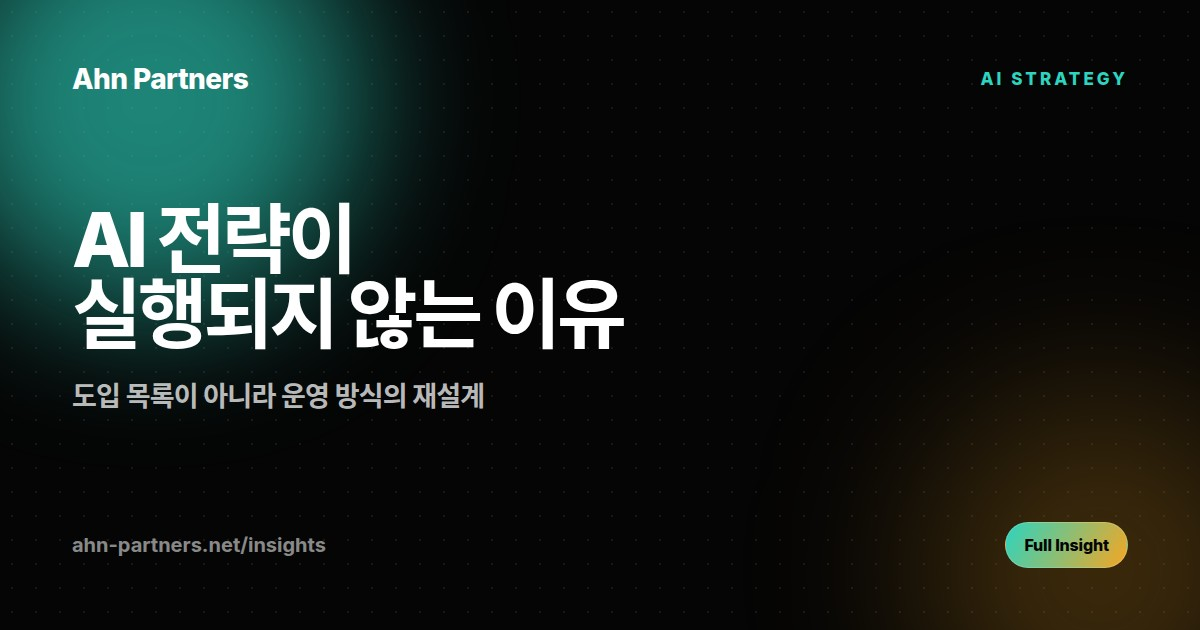
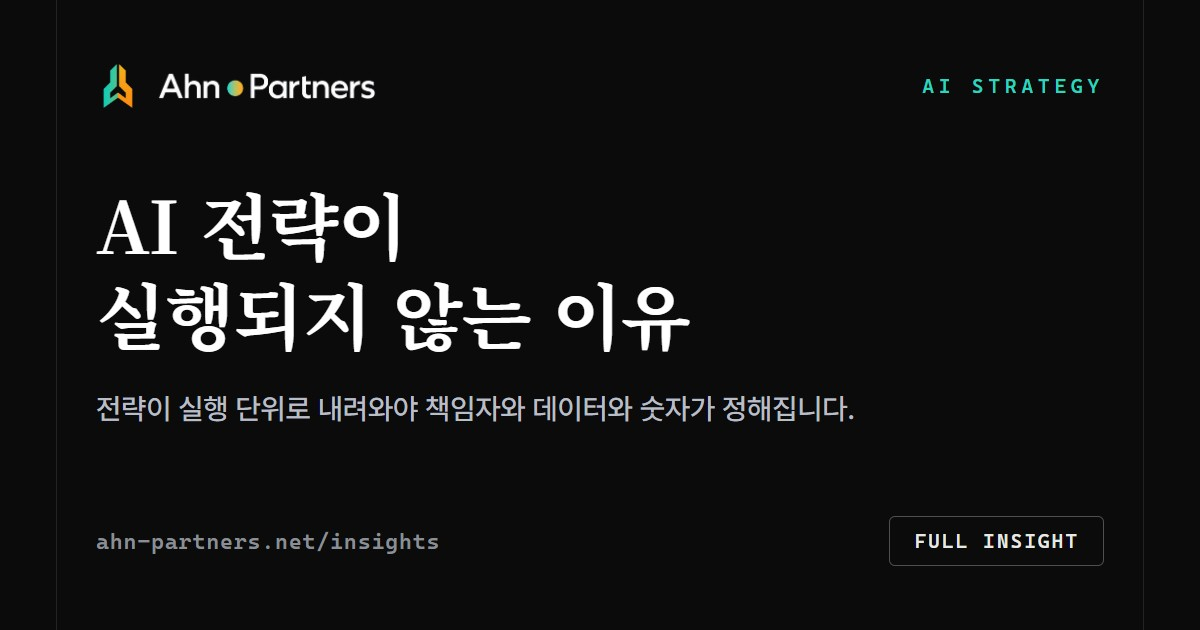
chore(insights): 허브 featured/카드 갱신, sitemap, OG 14장 v3 재생성(실로고+세리프)

diff --git a/images/og/insights/_og-template.html b/images/og/insights/_og-template.html
@@ -5,54 +5,48 @@
 <title>OG Template</title>
 <link rel="stylesheet" href="https://cdn.jsdelivr.net/gh/orioncactus/pretendard@v1.3.9/dist/web/variable/pretendardvariable.min.css">
 <link rel="preconnect" href="https://fonts.googleapis.com">
-<link href="https://fonts.googleapis.com/css2?family=Inter:wght@400;700;800&display=swap" rel="stylesheet">
+<link href="https://fonts.googleapis.com/css2?family=Noto+Serif+KR:wght@600;700&display=swap" rel="stylesheet">
 <style>
   *{margin:0;padding:0;box-sizing:border-box}
   html,body{width:1200px;height:630px;overflow:hidden}
   body{
     position:relative;
-    background:#050505;
+    background:#0b0b0b;
     font-family:'Pretendard Variable',Pretendard,sans-serif;
     color:#fff;
   }
-  .dots{
-    position:absolute;inset:0;
-    background-image:radial-gradient(rgba(255,255,255,.07) 1.5px,transparent 1.5px);
-    background-size:34px 34px;
-    background-position:12px 12px;
+  /* v3 (2026-07-09): 그라데이션/pill 제거, 실제 로고 이미지, 세리프 제목, 컨테이너 가이드선 */
+  .guides::before,.guides::after{
+    content:"";position:absolute;top:0;bottom:0;width:1px;background:rgba(255,255,255,.10);
   }
-  .glow-teal{
-    position:absolute;top:-260px;left:-200px;width:760px;height:640px;
-    background:radial-gradient(closest-side,rgba(45,212,191,.55),rgba(45,212,191,0));
-  }
-  .glow-amber{
-    position:absolute;bottom:-300px;right:-220px;width:720px;height:620px;
-    background:radial-gradient(closest-side,rgba(245,158,11,.38),rgba(245,158,11,0));
-  }
-  .frame{position:absolute;inset:0;padding:64px 76px;display:flex;flex-direction:column}
+  .guides::before{left:56px}
+  .guides::after{right:56px}
+  .frame{position:absolute;inset:0;padding:64px 96px;display:flex;flex-direction:column}
   .top{display:flex;justify-content:space-between;align-items:center}
-  .brand{font-family:Inter,sans-serif;font-weight:800;font-size:30px;letter-spacing:-.01em}
-  .category{font-family:Inter,sans-serif;font-weight:700;font-size:22px;letter-spacing:.28em;color:#2dd4bf;text-transform:uppercase}
-  .mid{flex:1;display:flex;flex-direction:column;justify-content:center;padding-bottom:20px}
-  .title{font-weight:800;font-size:78px;line-height:1.22;letter-spacing:-.02em;word-break:keep-all;white-space:pre-line}
-  .subtitle{margin-top:30px;font-weight:500;font-size:30px;color:#8fe6d8;word-break:keep-all}
+  .brand{display:flex;align-items:center;gap:16px}
+  .brand img.mark{height:44px;width:auto}
+  .brand img.wordmark{height:30px;width:auto}
+  .category{font-family:'SF Mono','Cascadia Mono',ui-monospace,monospace;font-weight:600;font-size:20px;letter-spacing:.24em;color:#2dd4bf;text-transform:uppercase}
+  .mid{flex:1;display:flex;flex-direction:column;justify-content:center;padding-bottom:16px}
+  .title{font-family:'Noto Serif KR',serif;font-weight:700;font-size:72px;line-height:1.26;letter-spacing:-.01em;word-break:keep-all;white-space:pre-line}
+  .subtitle{margin-top:28px;font-weight:500;font-size:29px;line-height:1.5;color:#b9bdc4;word-break:keep-all}
   .bottom{display:flex;justify-content:space-between;align-items:center}
-  .url{font-family:Inter,sans-serif;font-weight:700;font-size:24px;color:#9ca3af}
-  .pill{
-    font-family:Inter,sans-serif;font-weight:700;font-size:24px;color:#0b0b0b;
-    padding:14px 30px;border-radius:999px;
-    background:linear-gradient(90deg,#2dd4bf,#f59e0b);
+  .url{font-family:'SF Mono','Cascadia Mono',ui-monospace,monospace;font-weight:600;font-size:22px;color:#8a8f96;letter-spacing:.04em}
+  .tag{
+    font-family:'SF Mono','Cascadia Mono',ui-monospace,monospace;font-weight:600;font-size:20px;color:#e8e8e5;
+    padding:12px 24px;border:1px solid rgba(255,255,255,.28);border-radius:6px;letter-spacing:.1em;
   }
 </style>
 </head>
 <body>
-  <div class="dots"></div>
-  <div class="glow-teal"></div>
-  <div class="glow-amber"></div>
+  <div class="guides"></div>
   <div class="frame">
     <div class="top">
-      <div class="brand">Ahn Partners</div>
-      <div class="category" id="cat">AI STRATEGY</div>
+      <div class="brand">
+        <img class="mark" src="../../logo/ap-mark.png" alt="">
+        <img class="wordmark" src="../../logo/ap-wordmark-web.png" alt="Ahn Partners">
+      </div>
+      <div class="category" id="cat">INSIGHT</div>
     </div>
     <div class="mid">
       <div class="title" id="title">제목</div>
@@ -60,7 +54,7 @@
     </div>
     <div class="bottom">
       <div class="url">ahn-partners.net/insights</div>
-      <div class="pill">Full Insight</div>
+      <div class="tag" id="tag">INSIGHT</div>
     </div>
   </div>
 <script>
@@ -68,6 +62,7 @@
   document.getElementById('cat').textContent = p.get('c') || 'INSIGHT';
   document.getElementById('title').textContent = (p.get('t') || '').replace(/\|/g, '\n');
   document.getElementById('sub').textContent = p.get('s') || '';
+  document.getElementById('tag').textContent = p.get('g') || 'FULL INSIGHT';
 </script>
 </body>
 </html>

diff --git a/insights.html b/insights.html
@@ -31,7 +31,7 @@
   <meta name="twitter:image:alt" content="Ahn Partners - AI 전환, 결정부터 실행까지">
   <link rel="preconnect" href="https://fonts.googleapis.com">
   <link rel="preconnect" href="https://fonts.gstatic.com" crossorigin>
-  <link href="https://fonts.googleapis.com/css2?family=Inter:wght@100;200;300;400;700;800&family=Playfair+Display:ital,wght@1,400;1,700&display=swap" rel="stylesheet">
+  <link href="https://fonts.googleapis.com/css2?family=Inter:wght@100;200;300;400;700;800&family=Noto+Serif+KR:wght@600;700&display=swap" rel="stylesheet">
   <link rel="stylesheet" href="https://cdn.jsdelivr.net/gh/orioncactus/pretendard@v1.3.9/dist/web/variable/pretendardvariable.min.css">
   <link rel="stylesheet" href="insights/insights.css">
   <script type="application/ld+json">
@@ -107,12 +107,12 @@
     <section class="container featured-insight" aria-labelledby="featured-title">
       <div class="featured-copy">
         <p class="card-kicker">Featured Insight</p>
-        <h2 id="featured-title">AI 전환에서 경영진이 가장 많이 하는 착각</h2>
-        <p>도구를 고르는 질문이 아니라 판단을 정리하는 질문이 먼저입니다. 27년 기술경영과 직접 개발 경험에서 확인한 순서를 정리했습니다.</p>
-        <div class="meta-row"><span>AI 전략</span><span>2026.07.07</span><span>6분</span></div>
-        <a class="text-link" href="insights/ai-executive-misconception.html">전체 글 읽기</a>
+        <h2 id="featured-title">AI 도입 프로젝트 열에 아홉은 성과 없이 끝납니다</h2>
+        <p>기술이 부족해서가 아닙니다. 끝을 정하지 않고 시작하기 때문입니다. MIT, S&amp;P, 맥킨지 숫자와 함께 착수 품의서에 넣을 한 줄을 담았습니다.</p>
+        <div class="meta-row"><span>AI 전략</span><span>2026.07.09</span><span>10분</span></div>
+        <a class="text-link" href="insights/silent-shelving.html">전체 글 읽기</a>
       </div>
-      <a class="featured-visual" href="insights/ai-executive-misconception.html" aria-label="AI 전환에서 경영진이 가장 많이 하는 착각 읽기">
+      <a class="featured-visual" href="insights/silent-shelving.html" aria-label="AI 도입 프로젝트 열에 아홉은 성과 없이 끝납니다 읽기">
         <span class="visual-label">AI Strategy</span>
         <span class="visual-number">01</span>
         <span class="visual-glow visual-glow-teal"></span>
@@ -125,10 +125,17 @@
         <h2 id="latest-title">최근 인사이트</h2>
       </div>
       <div class="insight-grid">
+        <article class="insight-card" data-topic="AI 전략">
+          <p class="card-kicker">AI 전략</p>
+          <h3><a href="insights/silent-shelving.html">AI 도입 프로젝트 열에 아홉은 성과 없이 끝납니다</a></h3>
+          <p>기술이 부족해서가 아닙니다. 끝을 정하지 않고 시작하기 때문입니다.</p>
+          <div class="meta-row"><span>2026.07.09</span><span>10분</span></div>
+          <a class="card-link" href="insights/silent-shelving.html">읽기</a>
+        </article>
         <article id="ai-strategy" class="insight-card" data-topic="AI 전략">
           <p class="card-kicker">AI 전략</p>
           <h3><a href="insights/ai-executive-misconception.html">AI 전환에서 경영진이 가장 많이 하는 착각</a></h3>
-          <p>도구 목록보다 판단 목록이 먼저입니다. 27년 기술경영에서 확인한 순서입니다.</p>
+          <p>도구를 고르기 전에 무엇을 판단할지부터 정해야 합니다.</p>
           <div class="meta-row"><span>2026.07.07</span><span>6분</span></div>
           <a class="card-link" href="insights/ai-executive-misconception.html">읽기</a>
         </article>
@@ -184,7 +191,7 @@
         <article class="insight-card" data-topic="신사업 실행">
           <p class="card-kicker">신사업 실행</p>
           <h3><a href="insights/first-customer-first.html">투자자보다 첫 고객이 먼저입니다</a></h3>
-          <p>투자는 검증 수단이 아니라 증폭 수단입니다. 27년 신사업 경험에서 확인한 생존의 순서입니다.</p>
+          <p>투자는 검증 수단이 아니라 증폭 수단입니다. 첫 결재를 고객에게 받는 순서를 담았습니다.</p>
           <div class="meta-row"><span>2026.07.07</span><span>6분</span></div>
           <a class="card-link" href="insights/first-customer-first.html">읽기</a>
         </article>
